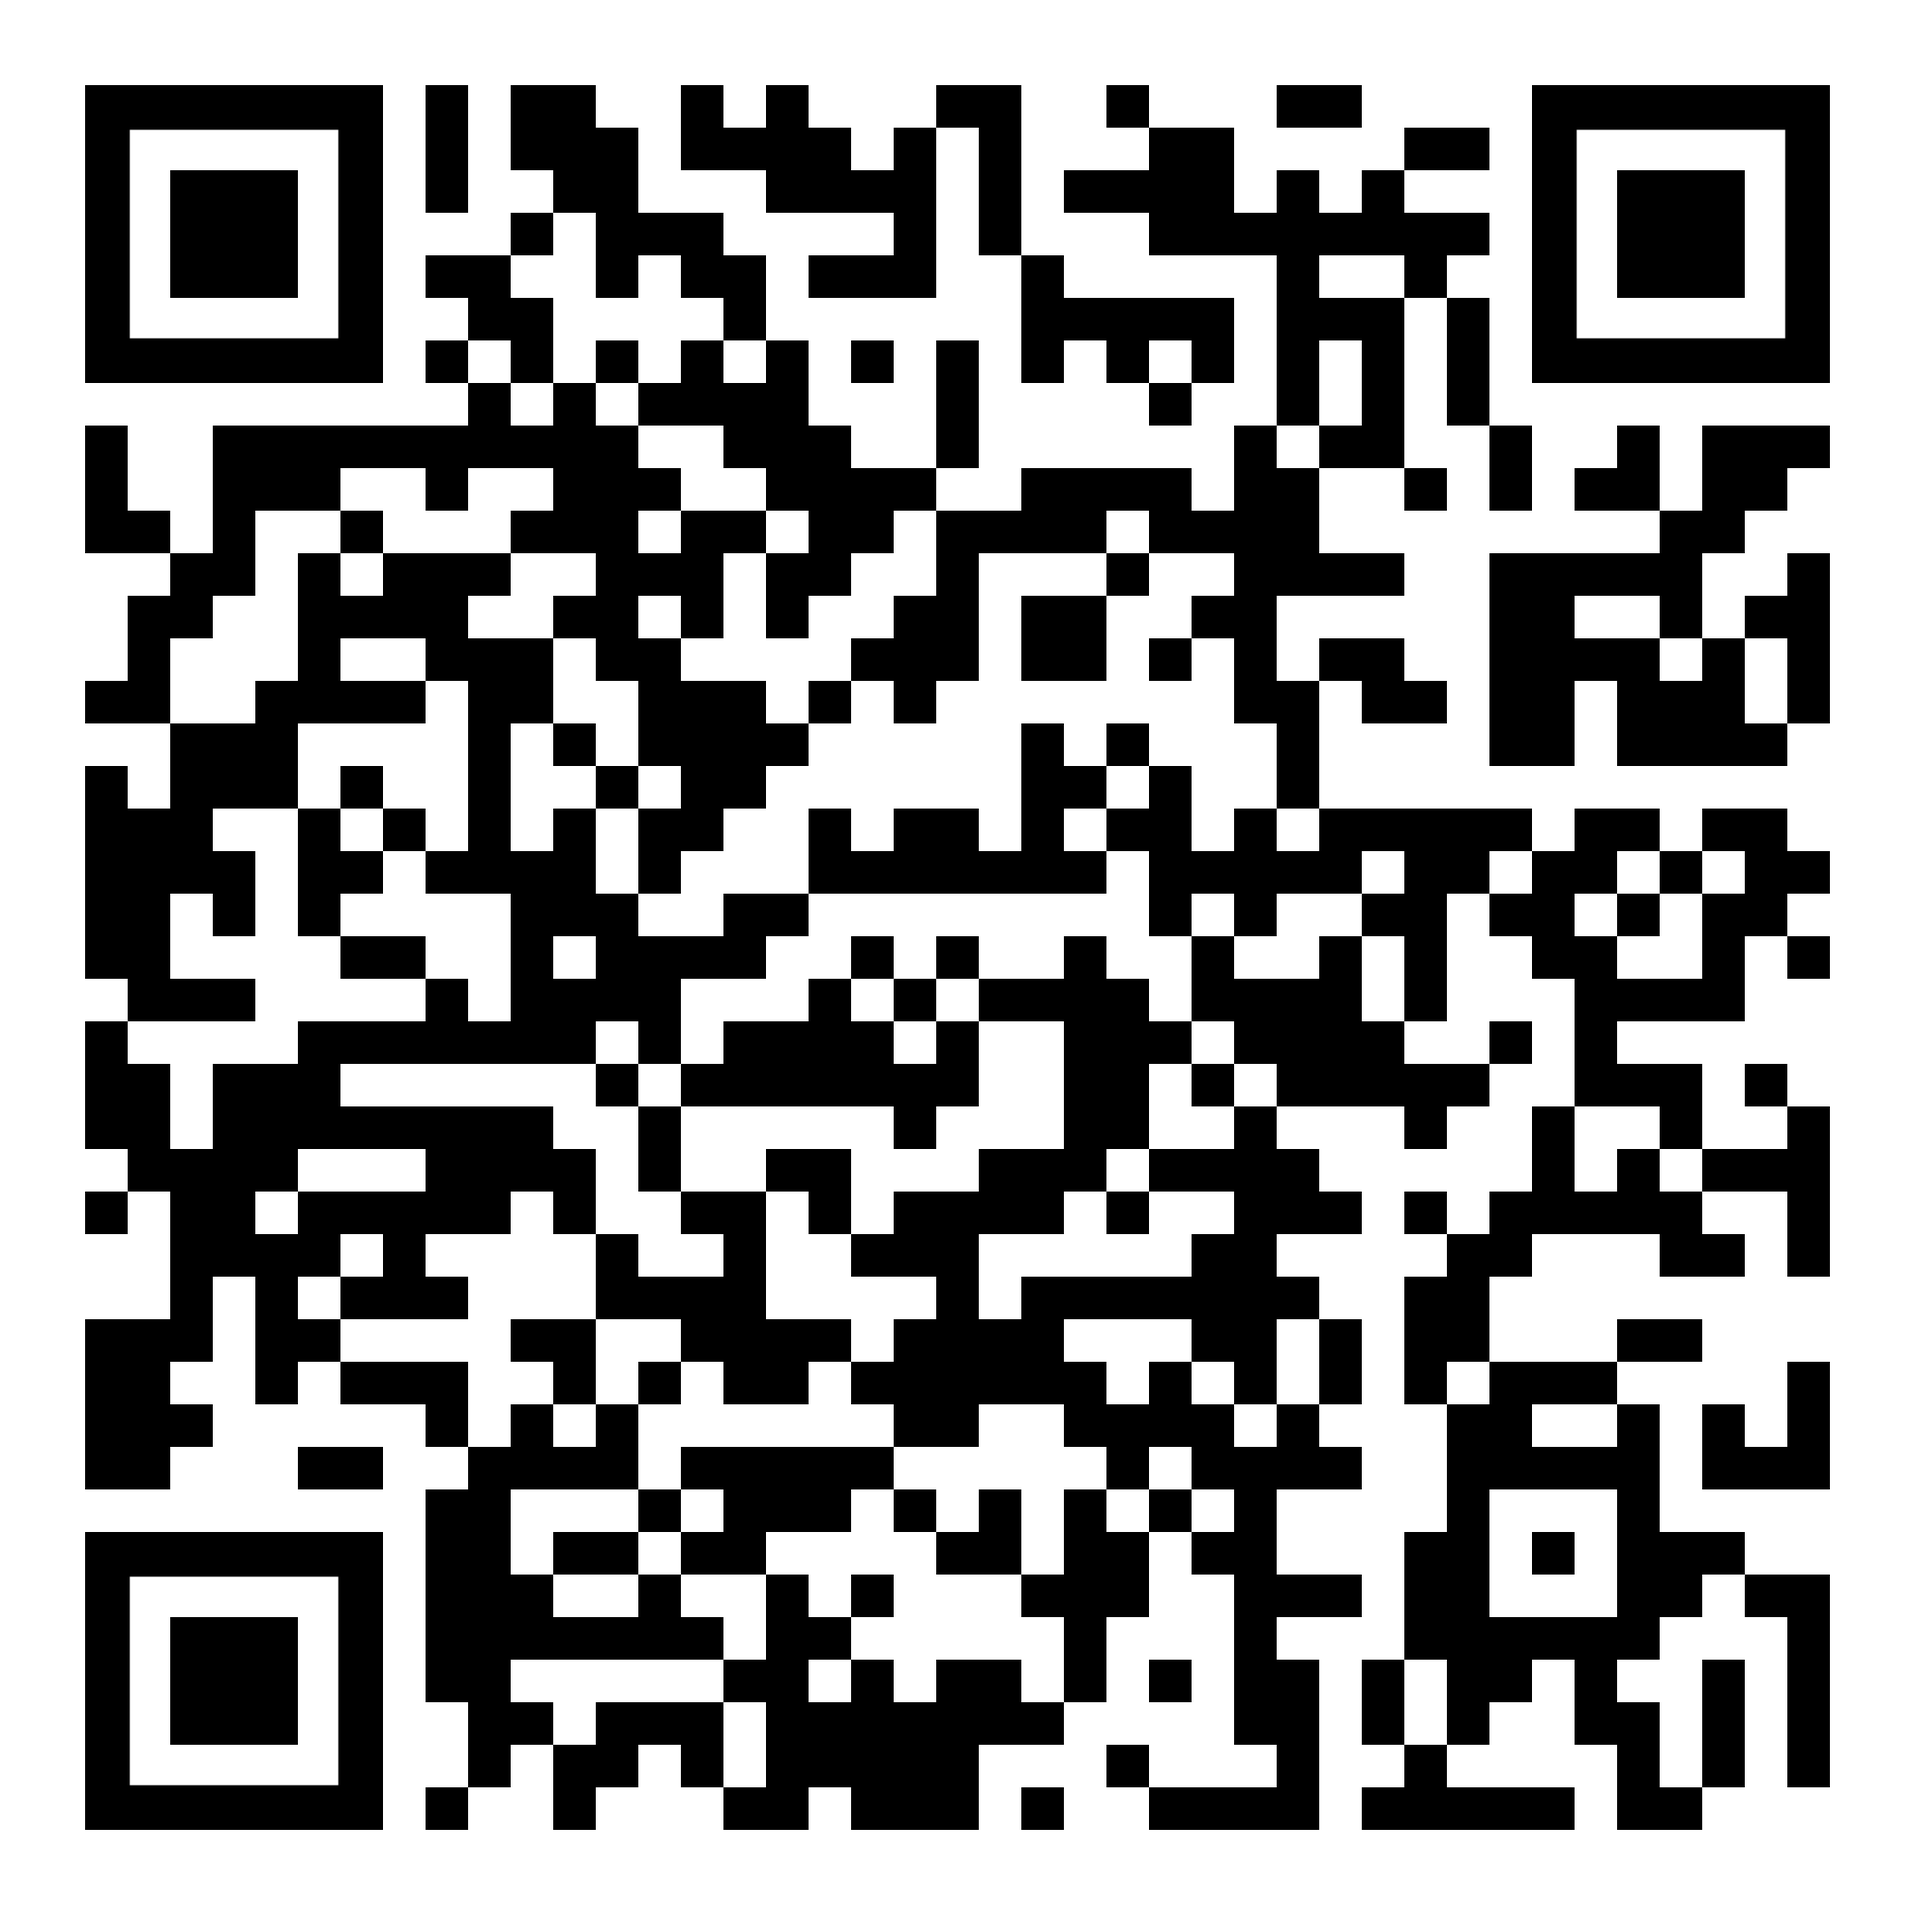
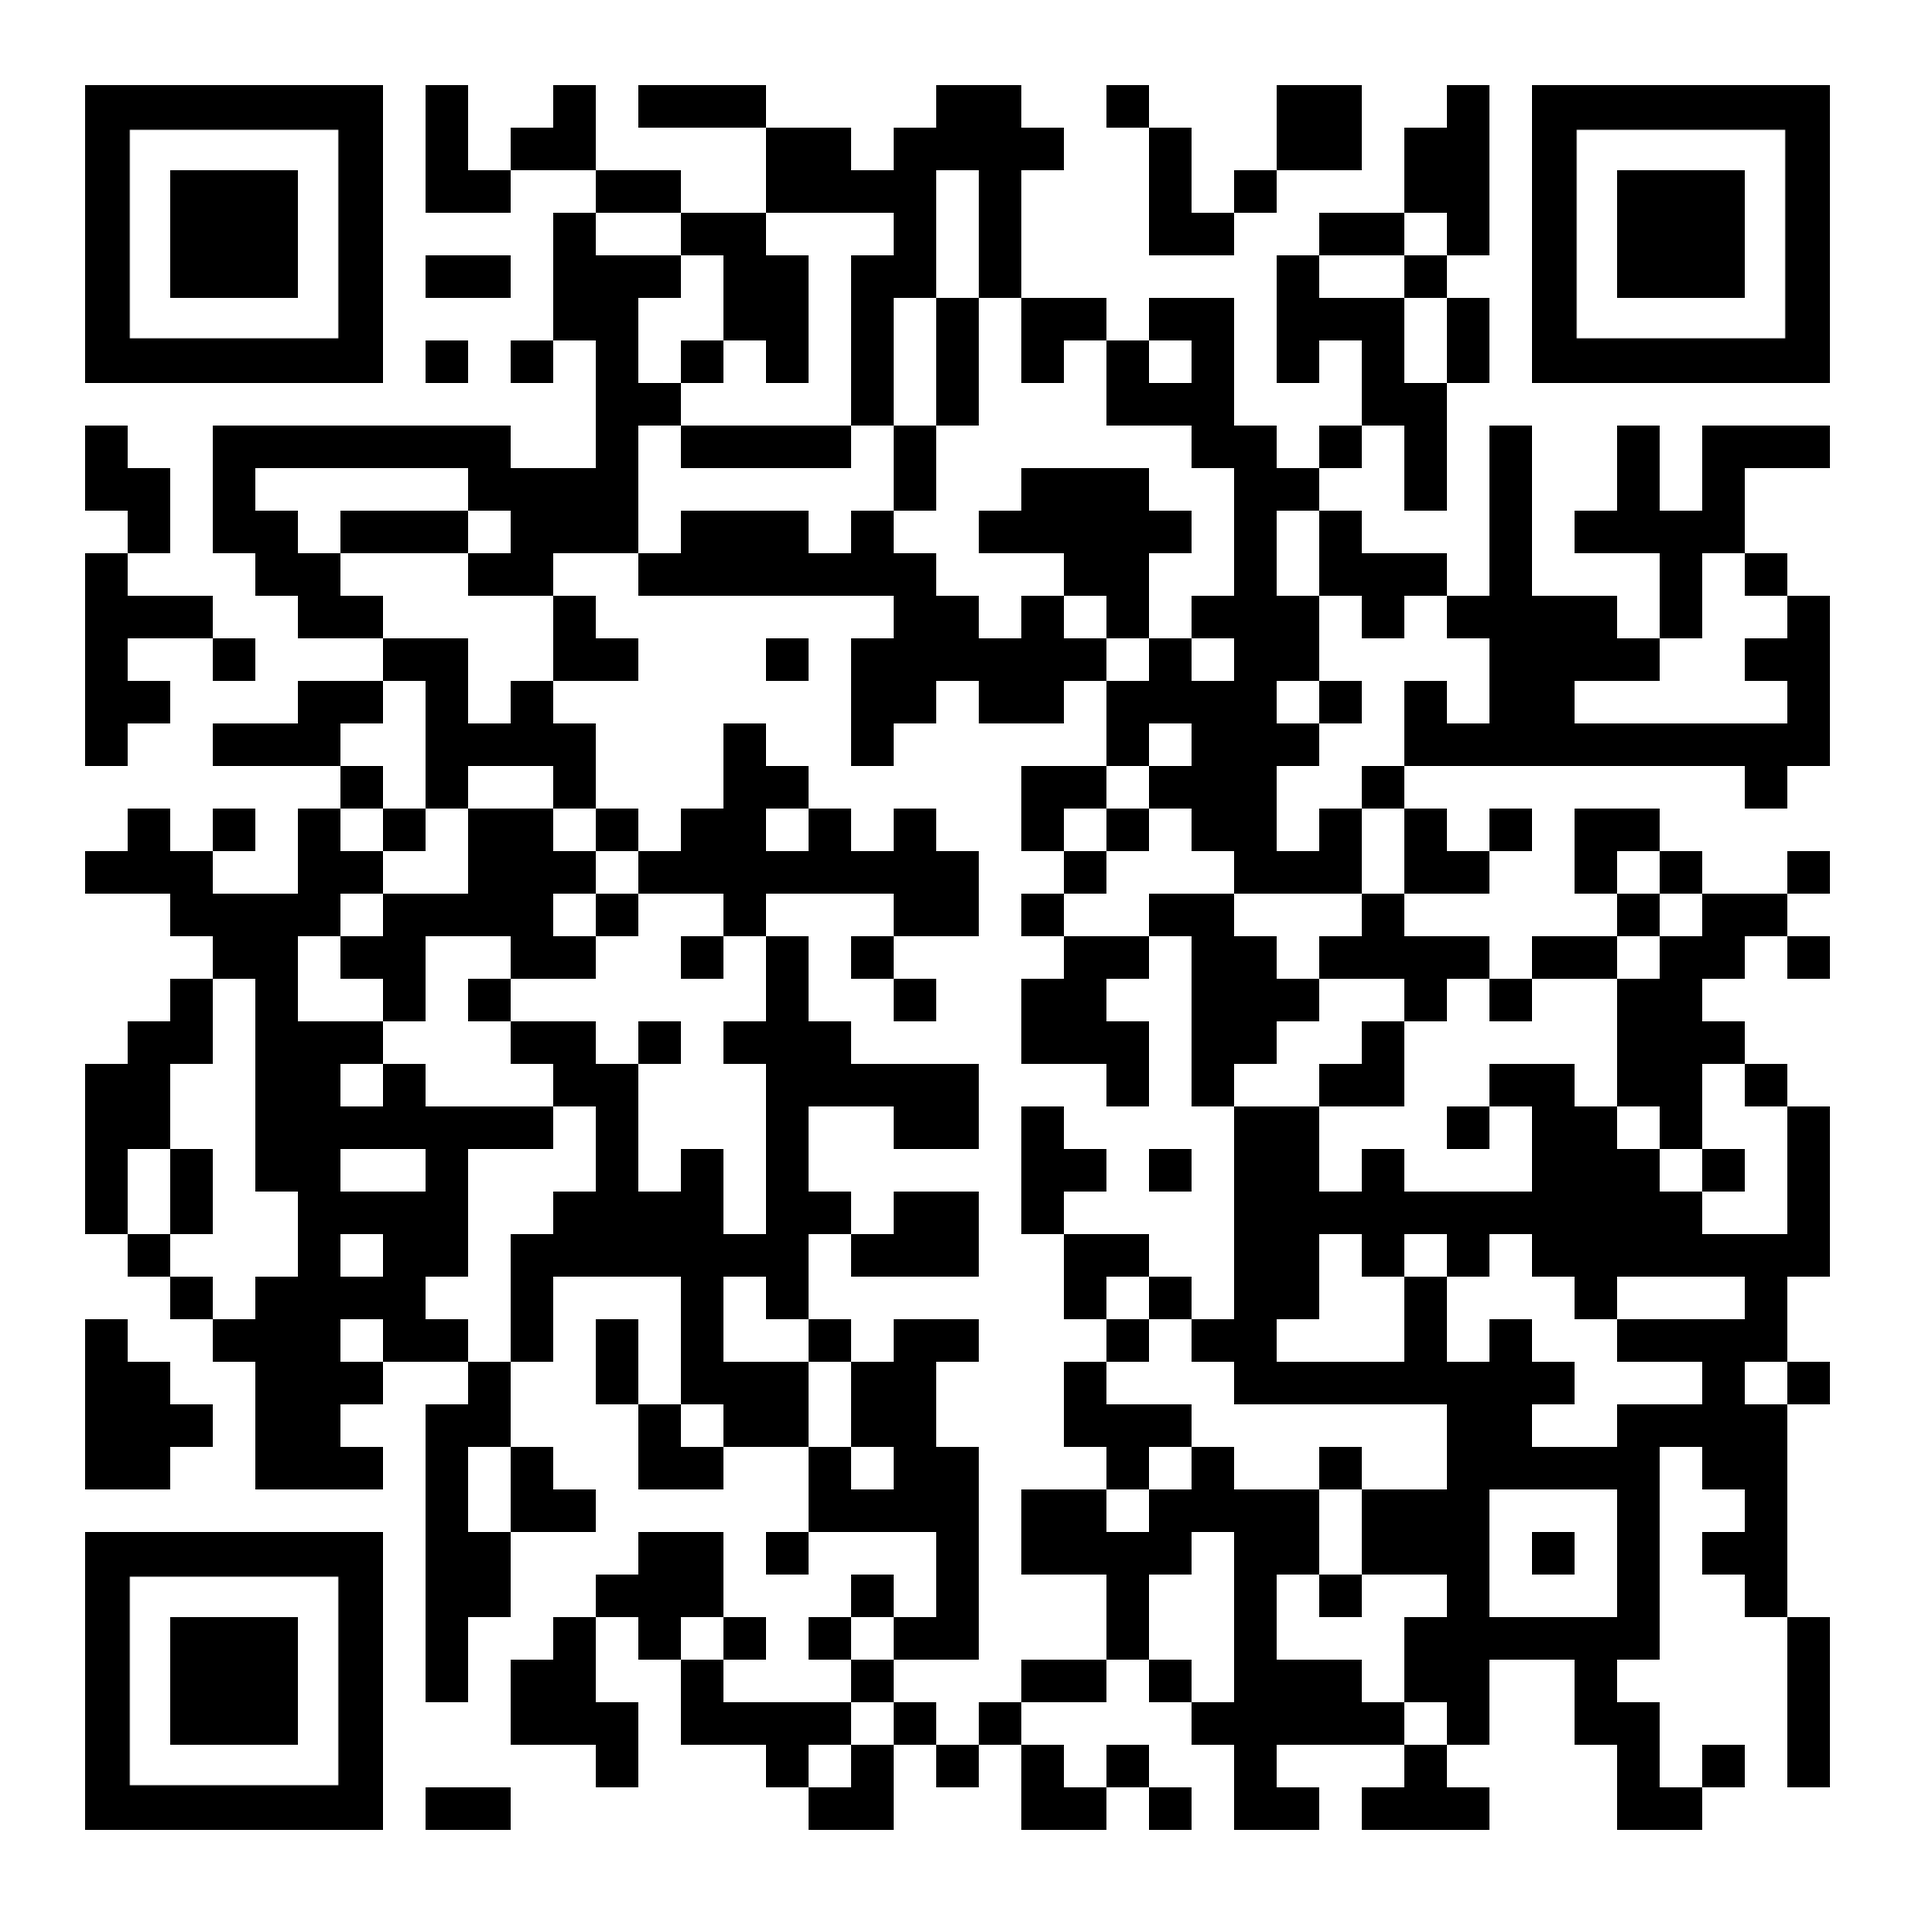
Change wallets and crypto domains

Changed region(s): [[0.0308, 0.0308, 0.956, 0.956], [0.4626, 0.0308, 0.8018, 0.1542], [0.771, 0.9252, 0.8327, 0.956]]

diff --git a/index.html b/index.html
@@ -33,10 +33,16 @@
 
 		<h2>Monies</h2>
 
-		If I've requested payment for something or you're feeling generous then you can send me some crypto (click to open a QR code in a new tab so you can verify the scan result):
+		If I've requested payment for something or you're feeling generous then you can send me some crypto.
+		<br>
+		<br>
+		You can send ETH and ERC20 tokens to <b>tebbs.eth</b>. Some wallets support my <b>samtebbs.crypto</b> domain or you could even try my <a href="https://starname.me/*samtebbs">starname</a>.
+		<br>
+		<br>
+		Alternatively, you can use my addresses (click to open a QR code in a new tab so you can verify the scan result):
 		<ul>
-			<li><b>ADA:</b> <a href="ada.png" target="_blank">addr1qxyh8q6s77c4c8kyctwhue6grpwjwkfgpq4j29p4u9k6zynrgjyy3rmdzyerjz3dpm36hxny7s4pvg2u3kdt4wex99hsasphhd</a></li>
-			<li><b>ETH:</b> <a href="eth.png" target="_blank">0xB180EDd10923330b1CbB9563fD1CC49E2E8E8f1C</a></li>
+			<li><b>ADA:</b> <a href="ada.png" target="_blank">addr1q9khrk2f6qwsx0g4scjtw5mm3flyyud2vt0v3qjau30gcrfyqrh5l5l6479g0e47jm59fd880ragmm530z2g43xsl6ns0gggut</a></li>
+			<li><b>ETH:</b> <a href="eth.png" target="_blank">0xa2484a6d0EFceaa4F6f22eB74D9bB792fdd17624</a></li>
 			<li><b>BTC:</b> <a href="btc.png" target="_blank">bc1q93y2mtq62mzzfdxk5746ta695tnmxyhe3z4s3c</a></li>
 			<li><b>BCH:</b> <a href="bch.png" target="_blank">qrj0ezlyn04cq28mtszcpla3kxwjxq0lavnkfqkrpl</a></li>
 			<li><b>NANO:</b> <a href="nano.png" target="_blank">nano_3rp68aga73h8qfze7rr7pr78pjgos4onjhc3umcy9adgkqn8shzfpbjhg9xo</a></li>
